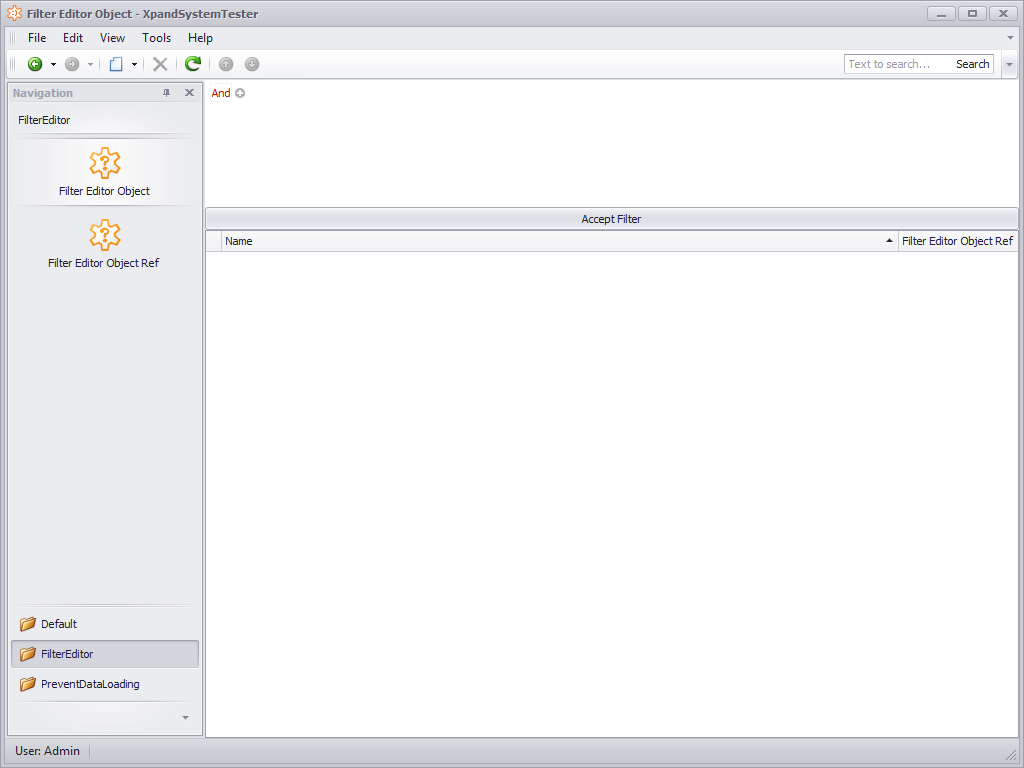
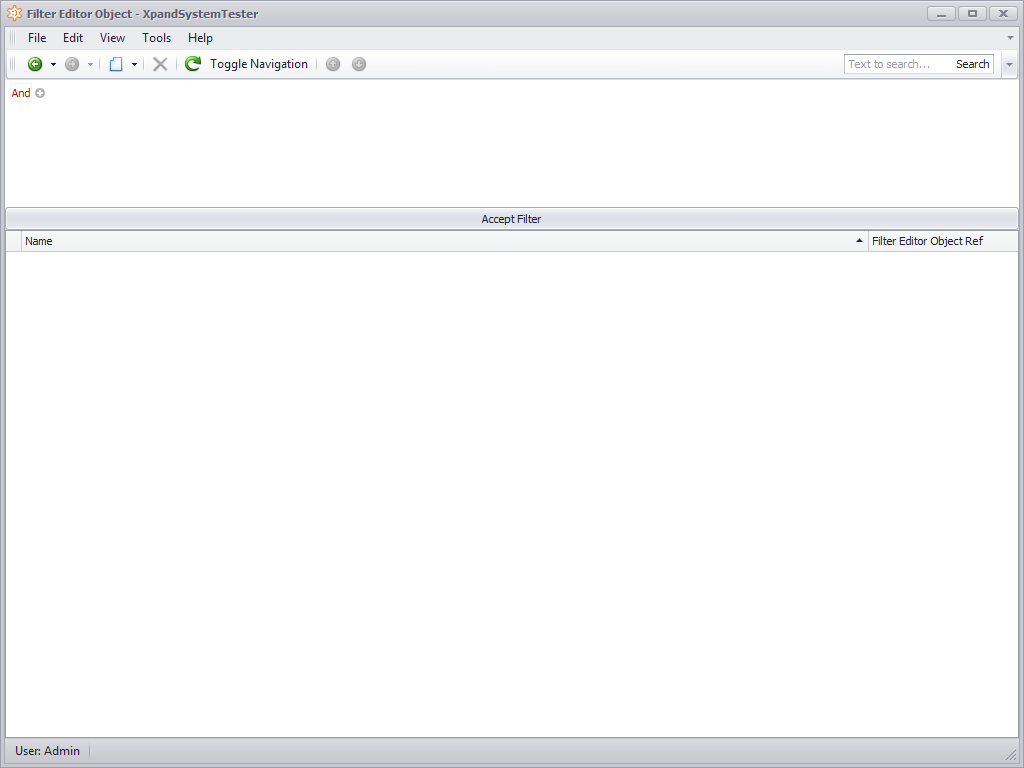
update easytest screenshots without navigation

diff --git a/Xpand.EasyTest/Xpand.EasyTest/Commands/XpandCompareScreenshotCommand.cs b/Xpand.EasyTest/Xpand.EasyTest/Commands/XpandCompareScreenshotCommand.cs
@@ -14,7 +14,7 @@ namespace Xpand.EasyTest.Commands{
         protected override void InternalExecute(ICommandAdapter adapter){
             var activeWindowControl = adapter.CreateTestControl(TestControlType.Dialog, null);
             var windowHandle = GetWindowHandle(activeWindowControl);
-            ExecuteAdditionalCommands(adapter,windowHandle);
+            ExecuteAdditionalCommands(adapter);
             var testImage = GetTestImage(windowHandle);
             var filename = GetFilename(adapter);
 
@@ -87,28 +87,30 @@ namespace Xpand.EasyTest.Commands{
             return windowHandle;
         }
 
-        private void ExecuteAdditionalCommands(ICommandAdapter adapter, IntPtr windowHandle){
-            if (this.ParameterValue(KillFocusCommand.Name, true)){
-                var hideCaretCommand = new KillFocusCommand();
-                hideCaretCommand.Execute(adapter);
-            }
-            if (this.ParameterValue(HideCursorCommand.Name, true)){
-                var hideCaretCommand = new HideCursorCommand();
-                hideCaretCommand.Execute(adapter);
-            }
-            if (this.ParameterValue("ToggleNavigation", true)){
+        private void ExecuteAdditionalCommands(ICommandAdapter adapter){
+            if (this.ParameterValue("ToggleNavigation", true)) {
                 ToggleNavigation(adapter);
             }
+
             var parameter = Parameters["ActiveWindowSize"];
             string activeWindowSize = "1024x768";
-            if (parameter!=null){
+            if (parameter != null) {
                 activeWindowSize = parameter.Value;
             }
             var activeWindowSizeCommand = new ResizeWindowCommand();
             activeWindowSizeCommand.Parameters.MainParameter = new MainParameter(activeWindowSize);
-            activeWindowSizeCommand.Parameters.ExtraParameter = new MainParameter(windowHandle.ToString());
             activeWindowSizeCommand.Execute(adapter);
 
+            if (this.ParameterValue(KillFocusCommand.Name, true)){
+                var hideCaretCommand = new KillFocusCommand();
+                hideCaretCommand.Execute(adapter);
+            }
+            
+            if (this.ParameterValue(HideCursorCommand.Name, true)){
+                var hideCaretCommand = new HideCursorCommand();
+                hideCaretCommand.Execute(adapter);
+            }
+            
             var sleepCommand = new SleepCommand();
             sleepCommand.Parameters.MainParameter=new MainParameter(500.ToString(CultureInfo.InvariantCulture));
             sleepCommand.Execute(adapter);

diff --git a/Xpand/Xpand.Persistent/Xpand.Persistent.Base/General/FrameExtensions.cs b/Xpand/Xpand.Persistent/Xpand.Persistent.Base/General/FrameExtensions.cs
@@ -5,13 +5,16 @@ using DevExpress.ExpressApp.Actions;
 using DevExpress.ExpressApp.Model;
 using Fasterflect;
 using System.Linq;
-using Xpand.Utils.Linq;
 
 namespace Xpand.Persistent.Base.General {
     public static class FrameExtensions {
-        public static IEnumerable<TAction> Actions<TAction>(this Frame frame, IEnumerable<IModelNode> items) where TAction : ActionBase {
-            var list = items.DistinctBy(model => model.GetParent<IModelAction>()).ToList();
-            return frame.Actions<TAction>().Where(choiceAction => list.Contains(choiceAction.Model));
+        public static IEnumerable<TAction> Actions<TAction>(this Frame frame, IEnumerable<IModelNode> items) where TAction : ActionBase{
+            var choiceActions = frame.Actions<TAction>();
+            if (choiceActions.Any())
+                return items.GroupBy(model => model.GetParent<IModelAction>())
+                    .Where(nodes => choiceActions.Select(action => action.Id).Any(s => s == nodes.Key.Id))
+                    .Select(@group => choiceActions.First(action => action.Id == @group.Key.Id)).Distinct();
+            return Enumerable.Empty<TAction>();
         }
 
         public static IEnumerable<ActionBase> Actions(this Frame frame){
